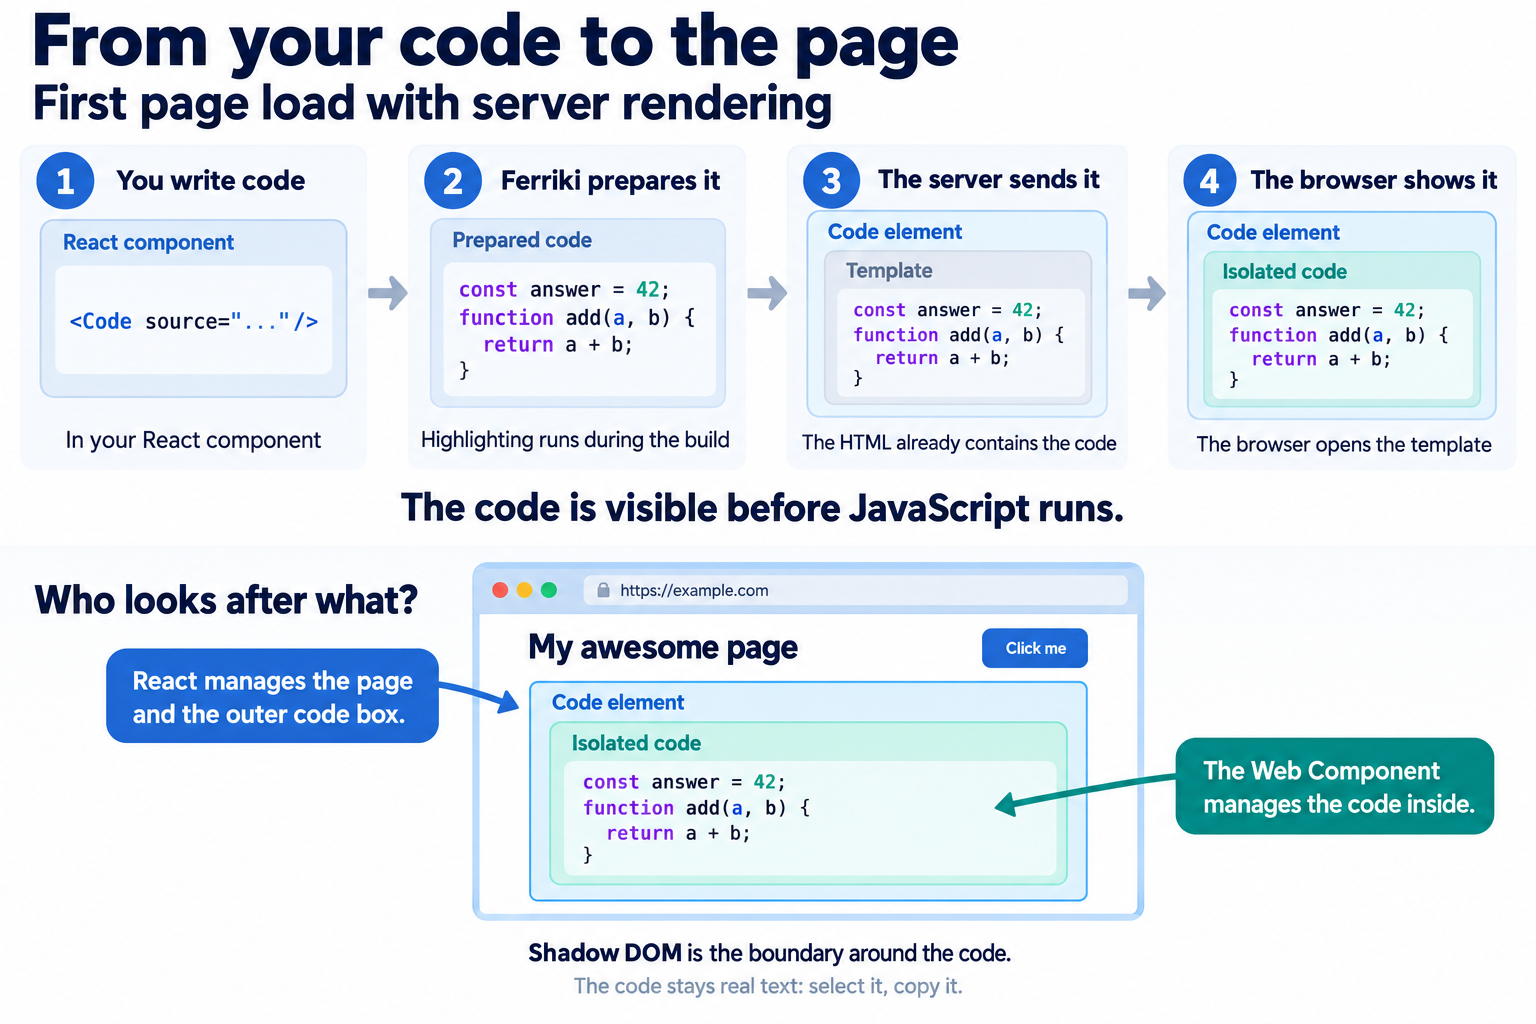
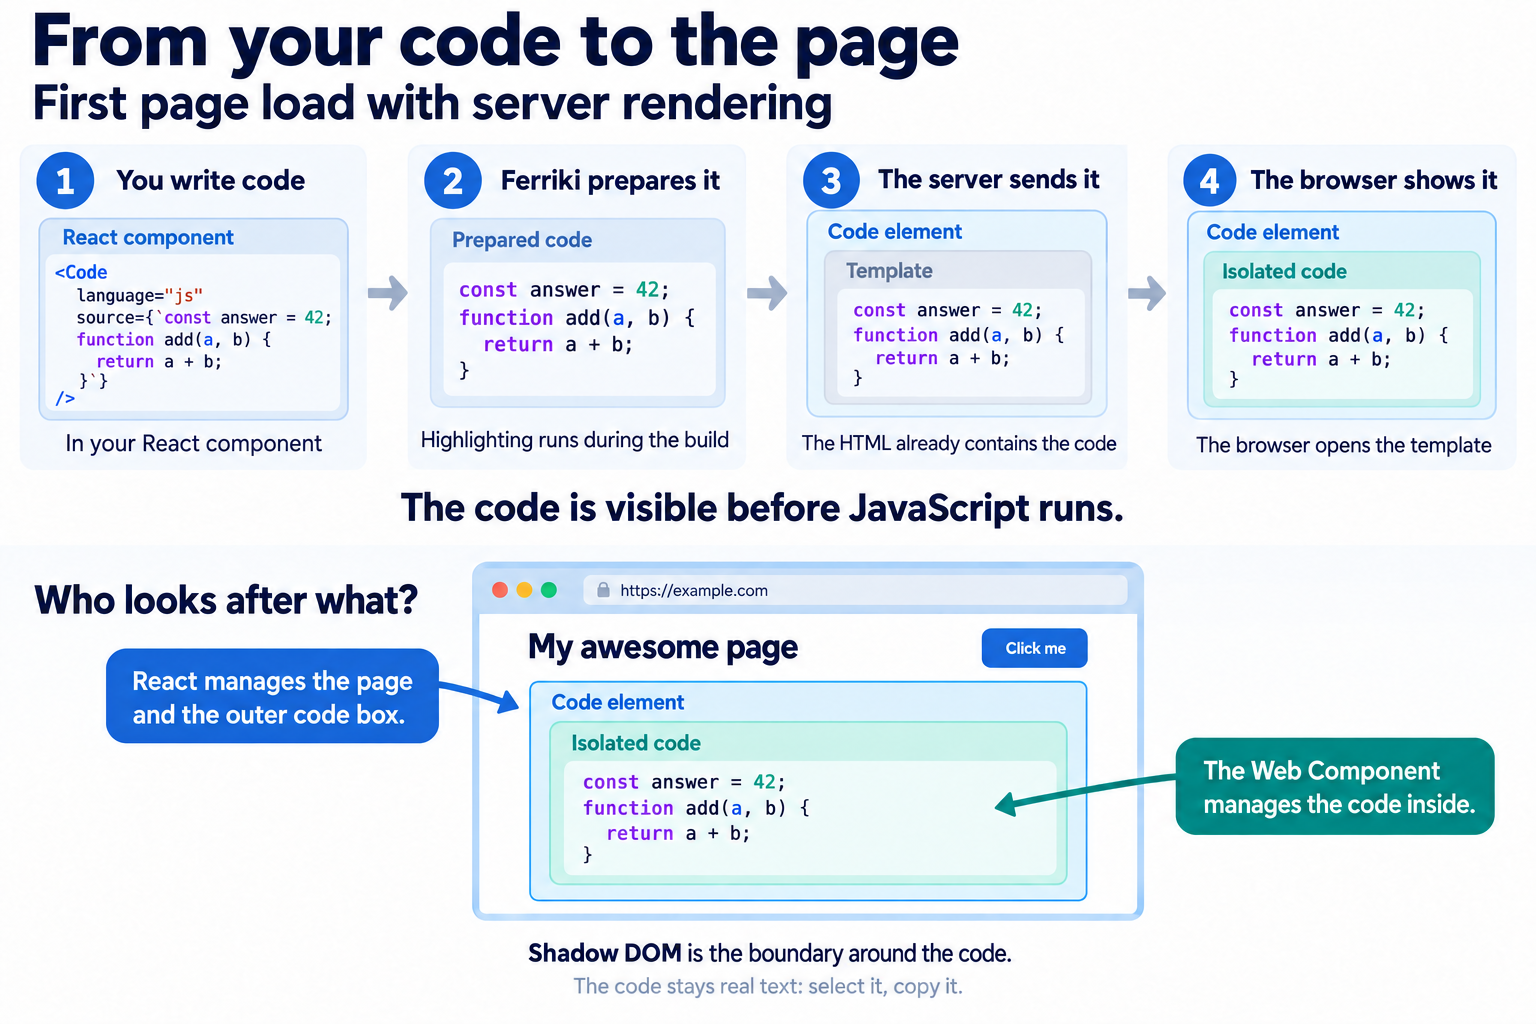
docs: show the complete JSX source in the code flow illustration

diff --git a/docs/assets/code-element-lifecycle-v2-prompt.md b/docs/assets/code-element-lifecycle-v2-prompt.md
@@ -5,6 +5,37 @@ block's journey and the boundary between React and the Web Component. The
 editable Mermaid diagrams in `../shadow-code-elements.md` cover implementation
 details separately.
 
+## Source example edit
+
+The selected image uses the following targeted edit to show the complete JSX
+call, including the string's braces and backticks. Its source matches the code
+shown in every later panel.
+
+```text
+Use case: precise-object-edit
+Asset type: introductory documentation infographic, US English
+Input image: edit target, the existing Ferriki four-step infographic.
+Primary request: Replace only the abbreviated JSX in the FIRST panel ('You write code') with a real, complete JSX macro call. The reader must see exactly how the example code is passed as a string through the source property, including curly braces and backticks.
+
+Render this exact seven-line code verbatim in the React component card:
+<Code
+  language="js"
+  source={`const answer = 42;
+function add(a, b) {
+  return a + b;
+}`}
+/>
+
+CRITICAL punctuation: On line 3, source= is followed by an opening curly brace { and then an actual backtick ` immediately before const. On line 6 the function's closing curly brace } is followed by an actual backtick ` and then the JSX expression's closing curly brace }. The final line is />. Do not use quotes around the full source string. No ellipses. No Markdown fence around the displayed code. Do not add a capitalized Source prop, children, or JSX interpolation inside the string.
+
+Use a readable, crisp monospaced font and subtle code coloring. Make the code fit naturally in that first card; a small adjustment to its internal padding or code font size is allowed. The complete first example must be comfortably legible, with every brace and backtick visible.
+The source body is EXACTLY the same four-line code already shown in panels 2, 3, 4 and the final browser picture. Preserve those code examples unchanged.
+
+Invariants: Keep all other panel headings, captions, labels, arrows, callouts, colors, layout, and the final browser ownership illustration unchanged. Preserve the image's landscape 1536 by 1024 proportions. Do not add extra explanations or implementation jargon. Modify only the contents and if necessary padding of the first React component card. No watermark.
+```
+
+## Original generation prompt
+
 ```text
 Use case: infographic-diagram
 Asset type: accessible introductory documentation illustration, US English labels

diff --git a/docs/shadow-code-elements.md b/docs/shadow-code-elements.md
@@ -10,7 +10,8 @@ that people can select and copy.
 Ferriki adds the syntax colors during the build. The browser receives the
 prepared result and does not run a highlighter.
 
-![One code block moves from a React component through build-time highlighting
+![A complete JSX Code call passes its example through the source property as a
+string with braces and backticks. The code moves through build-time highlighting
 and server HTML to an isolated area in the browser. React manages the page and
 outer code element; the Web Component manages the text inside.](assets/code-element-lifecycle-v2.png)
 
